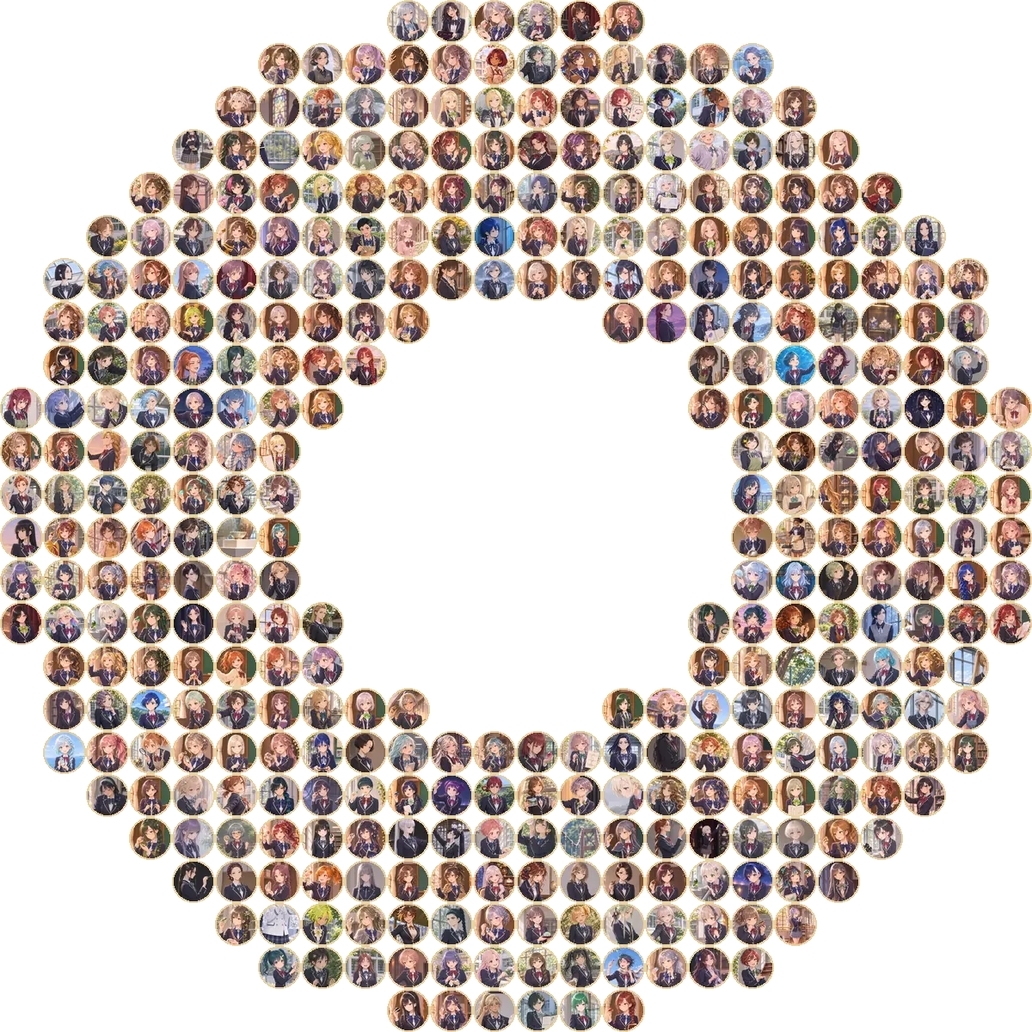
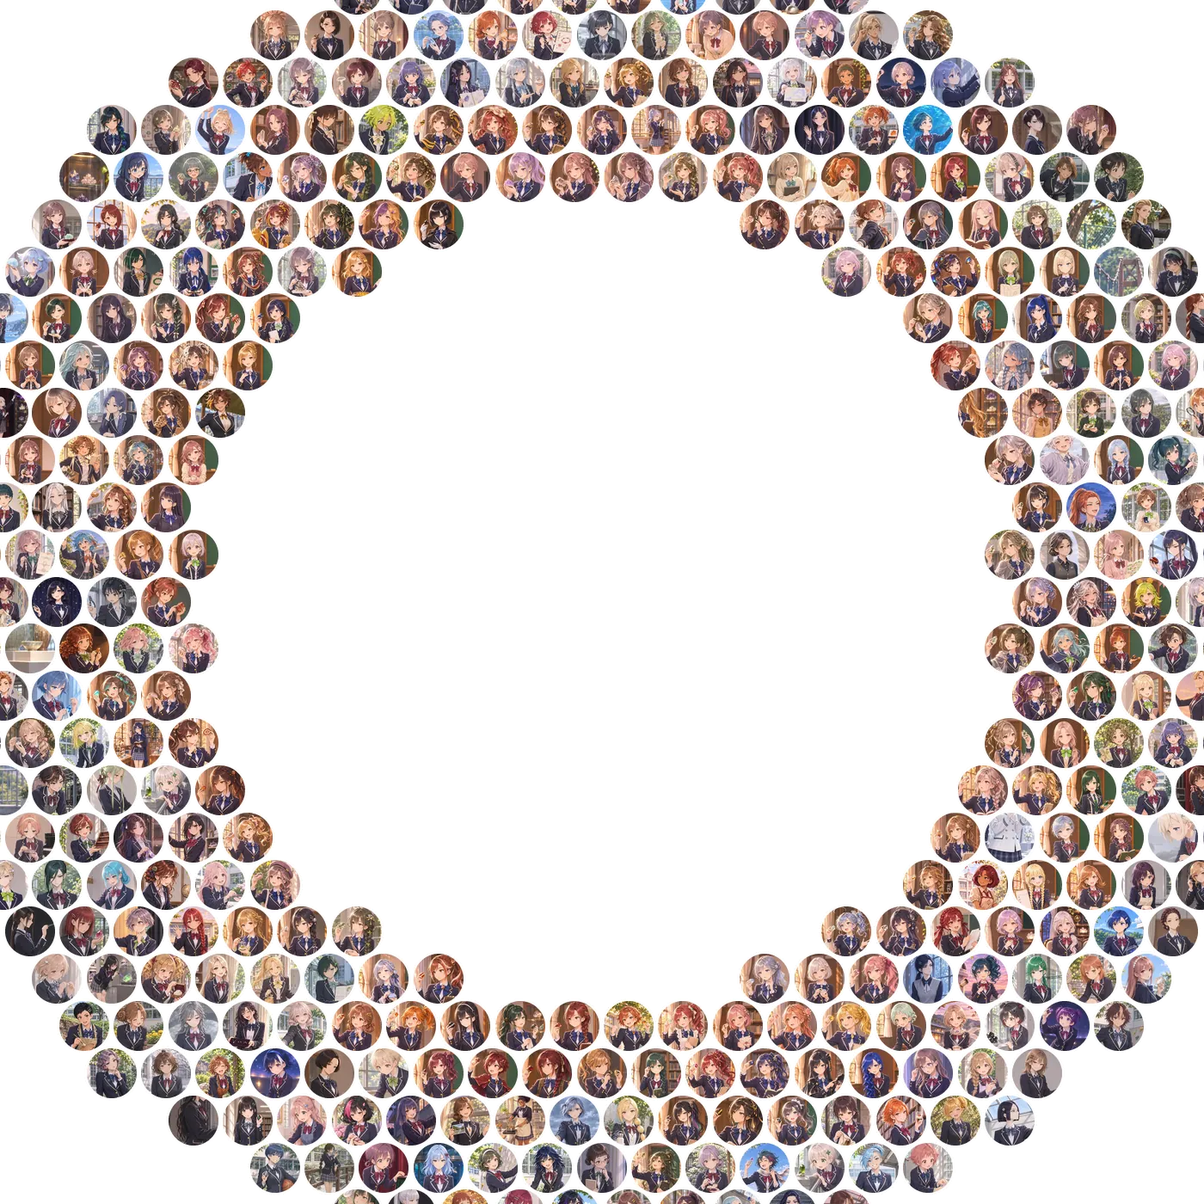
トップを華やかに：顔をタップでアップ表示、花びら・キラキラ・リボン
Claude-Session: https://claude.ai/code/session_01WnJ4nQuK9BvHnjVw5RPZCg

diff --git a/style.css b/style.css
@@ -276,3 +276,100 @@ main{max-width:520px;margin:0 auto;padding:0 14px 24px;outline:none}
 .today-in>a .pic{height:100%}
 
 .h-sub{text-align:center;margin:10px 0 0;font-weight:700;color:#5b3fa8;font-size:15px}.h-sub b{font-size:26px;color:#7b4fd6;margin-right:2px}
+
+/* ===== 2026-11-24 華やか版(女子高の園) ===== */
+:root{--pink:#ff8fb8;--pink2:#ffc2d9;--lilac:#b89cf2;--gold2:#e6c98a;--navy:#4a3a78}
+body{background:
+  radial-gradient(700px 420px at 0% 0%,#ffe1ee 0,transparent 60%),
+  radial-gradient(700px 420px at 100% 8%,#efe4ff 0,transparent 60%),
+  radial-gradient(800px 600px at 50% 110%,#ffe6f1 0,transparent 60%),
+  radial-gradient(circle at 12px 12px,rgba(255,170,205,.22) 2px,transparent 2.5px) 0 0/28px 28px,
+  #fff8fb}
+/* 花びら */
+.petals{position:fixed;inset:0;pointer-events:none;z-index:25;overflow:hidden}
+.petals i{position:absolute;top:-30px;width:12px;height:10px;background:linear-gradient(135deg,#ffd3e3,#ff9ec4);border-radius:12px 0 12px 0;opacity:.85;animation:petal 11s linear infinite}
+.petals i:nth-child(1){left:6%;animation-delay:0s;animation-duration:12s}
+.petals i:nth-child(2){left:18%;animation-delay:3s;transform:scale(.8)}
+.petals i:nth-child(3){left:29%;animation-delay:6s;animation-duration:14s}
+.petals i:nth-child(4){left:41%;animation-delay:1.5s}
+.petals i:nth-child(5){left:52%;animation-delay:8s;animation-duration:13s}
+.petals i:nth-child(6){left:63%;animation-delay:4.5s}
+.petals i:nth-child(7){left:74%;animation-delay:10s;animation-duration:15s}
+.petals i:nth-child(8){left:85%;animation-delay:2s}
+.petals i:nth-child(9){left:94%;animation-delay:7s;animation-duration:12s}
+.petals i:nth-child(10){left:35%;animation-delay:12s;background:linear-gradient(135deg,#efe2ff,#c9aef7)}
+.petals i:nth-child(11){left:70%;animation-delay:14s;background:linear-gradient(135deg,#efe2ff,#c9aef7)}
+.petals i:nth-child(12){left:12%;animation-delay:16s;background:linear-gradient(135deg,#fff3d6,#f0d08e)}
+@keyframes petal{0%{transform:translate(0,0) rotate(0)}25%{transform:translate(30px,25vh) rotate(120deg)}50%{transform:translate(-20px,50vh) rotate(220deg)}75%{transform:translate(25px,75vh) rotate(320deg)}100%{transform:translate(-10px,105vh) rotate(420deg);opacity:.2}}
+/* ヘッダー */
+.hd{background:linear-gradient(180deg,rgba(255,248,251,.97),rgba(255,248,251,.85));border-bottom:1px solid rgba(255,170,205,.35)}
+.hd::after{content:"";position:absolute;left:0;right:0;bottom:-6px;height:6px;background:radial-gradient(circle at 6px 0,rgba(255,170,205,.45) 5px,transparent 5.5px) 0 0/12px 6px}
+.logo-gem{background:linear-gradient(135deg,#ffd0e2,#ff8fb8 45%,#b89cf2);animation:gemshine 4s ease-in-out infinite}
+@keyframes gemshine{50%{filter:drop-shadow(0 0 8px rgba(255,143,184,.8)) brightness(1.15)}}
+.logo-txt b{background:linear-gradient(90deg,#ff6fa5,#b07cf0 45%,#e2b866 70%,#ff6fa5);background-size:200% 100%;-webkit-background-clip:text;background-clip:text;color:transparent;text-shadow:none;animation:shimmer 6s linear infinite}
+.logo-txt b::after{content:" ✦";-webkit-text-fill-color:#f2c86b;font-size:.6em;vertical-align:top}
+.logo-txt small{color:#c05c8c}
+@keyframes shimmer{to{background-position:-200% 0}}
+.menu-btn{border-color:rgba(255,170,205,.6)}
+/* ヒーロー */
+.hero369{background:
+  radial-gradient(circle at 50% 50%,#fff 0,#fff0f7 38%,#f6e6ff 70%,#ecdcff 100%)}
+.hero369::before{content:"";position:absolute;inset:0;background:conic-gradient(from 0deg,rgba(255,180,210,.25),rgba(190,160,255,.25),rgba(255,230,170,.25),rgba(255,180,210,.25));mix-blend-mode:soft-light;pointer-events:none}
+.sparkles{position:absolute;inset:0;pointer-events:none;z-index:3}
+.sparkles i{position:absolute;width:14px;height:14px;background:radial-gradient(circle,#fff 0,#fff 20%,transparent 60%);clip-path:polygon(50% 0,60% 40%,100% 50%,60% 60%,50% 100%,40% 60%,0 50%,40% 40%);animation:twinkle 2.6s ease-in-out infinite;filter:drop-shadow(0 0 4px #ffd36b)}
+.sparkles i:nth-child(1){left:8%;top:12%}.sparkles i:nth-child(2){left:88%;top:9%;animation-delay:.4s}
+.sparkles i:nth-child(3){left:22%;top:30%;animation-delay:.9s}.sparkles i:nth-child(4){left:76%;top:26%;animation-delay:1.3s}
+.sparkles i:nth-child(5){left:12%;top:70%;animation-delay:1.7s}.sparkles i:nth-child(6){left:90%;top:76%;animation-delay:.2s}
+.sparkles i:nth-child(7){left:48%;top:4%;animation-delay:2.1s}.sparkles i:nth-child(8){left:50%;top:93%;animation-delay:1.1s}
+.sparkles i:nth-child(9){left:3%;top:46%;animation-delay:.6s}.sparkles i:nth-child(10){left:95%;top:50%;animation-delay:1.9s}
+.sparkles i:nth-child(11){left:30%;top:86%;animation-delay:2.4s}.sparkles i:nth-child(12){left:70%;top:88%;animation-delay:.8s}
+.sparkles i:nth-child(13){left:33%;top:14%;animation-delay:1.5s}.sparkles i:nth-child(14){left:66%;top:12%;animation-delay:.3s}
+@keyframes twinkle{0%,100%{transform:scale(.3);opacity:0}50%{transform:scale(1.2) rotate(45deg);opacity:1}}
+.hits{position:absolute;inset:0}
+.hit{position:absolute;width:var(--d);height:var(--d);transform:translate(-50%,-50%);border-radius:50%;border:0;padding:0;background:transparent;-webkit-tap-highlight-color:transparent;transition:box-shadow .2s,transform .2s}
+.hit:hover,.hit:focus-visible{box-shadow:0 0 0 2px #fff,0 0 0 4px #ff8fb8,0 0 14px 4px rgba(255,143,184,.7);transform:translate(-50%,-50%) scale(1.25);outline:none}
+.hit:active{transform:translate(-50%,-50%) scale(1.4)}
+.h-center.has-group{box-shadow:0 0 0 4px #fff,0 0 0 8px #f2cf86,0 0 0 11px #fff,0 0 0 13px #ffb3cf,0 12px 40px 12px rgba(255,120,170,.35)}
+.h-center.has-group::after{content:"";position:absolute;inset:0;border-radius:50%;background:linear-gradient(120deg,transparent 35%,rgba(255,255,255,.55) 50%,transparent 65%);background-size:250% 100%;animation:gloss 5s ease-in-out 2s infinite;pointer-events:none}
+@keyframes gloss{0%{background-position:120% 0}40%,100%{background-position:-120% 0}}
+.h-hint{text-align:center;margin:10px 0 0;font-family:var(--head);font-size:13px;color:#d0598d;animation:hintpulse 2.4s ease-in-out infinite}
+@keyframes hintpulse{50%{opacity:.55}}
+.h-sub{position:relative;display:block;width:max-content;max-width:100%;margin:10px auto 0;padding:6px 26px;background:linear-gradient(90deg,#ff9fc4,#c3a2f5);color:#fff;border-radius:6px;font-size:14px;box-shadow:0 4px 12px rgba(255,120,170,.3)}
+.h-sub b{color:#fff;font-size:22px;text-shadow:0 1px 0 rgba(160,60,120,.35)}
+.h-sub::before,.h-sub::after{content:"";position:absolute;top:50%;width:14px;height:100%;transform:translateY(-50%);background:inherit;z-index:-1}
+.h-sub::before{left:-10px;clip-path:polygon(0 0,100% 0,100% 100%,0 100%,40% 50%);background:#ff9fc4}
+.h-sub::after{right:-10px;clip-path:polygon(0 0,100% 0,60% 50%,100% 100%,0 100%);background:#c3a2f5}
+/* ボタン */
+.btn.pri{background:linear-gradient(135deg,#ff8fb8,#c08af0);border-color:#ffd9e6;position:relative;overflow:hidden;box-shadow:0 6px 16px rgba(255,120,170,.35)}
+.btn.pri::after{content:"";position:absolute;top:0;left:-60%;width:40%;height:100%;background:linear-gradient(100deg,transparent,rgba(255,255,255,.6),transparent);transform:skewX(-20deg);animation:btnshine 3.5s ease-in-out infinite}
+@keyframes btnshine{0%,60%{left:-60%}100%{left:130%}}
+.btn{border-color:rgba(255,170,205,.7)}
+/* カード */
+.card{background:rgba(255,255,255,.86);border:1.5px solid rgba(255,170,205,.55);box-shadow:0 8px 24px rgba(255,120,170,.13)}
+.card h2::before{content:"❀ ";color:#ff8fb8}
+.today-tag{background:linear-gradient(90deg,#ff8fb8,#c08af0)!important;color:#fff!important}
+/* タブ */
+.tabs{background:linear-gradient(180deg,#fff7fb,#fff);border-top:1.5px solid rgba(255,170,205,.6)}
+.tabs a.on{background:linear-gradient(150deg,#ff9cc2,#b98af0);box-shadow:0 4px 12px rgba(255,120,170,.4)}
+/* ライトボックス */
+.lb{position:fixed;inset:0;z-index:60;display:grid;place-items:center;padding:18px}
+.lb-bg{position:absolute;inset:0;background:radial-gradient(circle at 50% 40%,rgba(255,214,232,.75),rgba(110,80,170,.6));backdrop-filter:blur(6px)}
+.lb-card{position:relative;width:min(380px,100%);background:linear-gradient(180deg,#fff,#fff6fa);border-radius:30px;padding:18px 18px 14px;box-shadow:0 20px 60px rgba(90,50,140,.35),0 0 0 3px #fff,0 0 0 6px #f6c9dc;touch-action:pan-y}
+.lb-pic{width:100%;aspect-ratio:1/1.1;border-radius:28px;overflow:hidden;background:#f4ecff;box-shadow:inset 0 0 0 3px #fff}
+.lb-pic img{width:100%;height:100%;object-fit:cover;object-position:50% 15%}
+.lb-group .lb-card{width:min(560px,100%)}
+.lb-group .lb-pic{aspect-ratio:1}
+.lb-tx{text-align:center;padding:12px 4px 2px}
+.lb-no{font-size:12px;color:#c05c8c;letter-spacing:.1em}
+.lb-tx h3{font-size:26px;margin:2px 0;background:linear-gradient(90deg,#ff6fa5,#9b6be6);-webkit-background-clip:text;background-clip:text;color:transparent}
+.lb-st{margin:0 0 10px;font-size:14px;color:var(--navy)}
+.lb-st .dot{display:inline-block;width:10px;height:10px;border-radius:50%;margin-right:6px;vertical-align:0;box-shadow:0 0 0 2px #fff,0 0 0 3px rgba(0,0,0,.08)}
+.lb-x{position:absolute;top:-12px;right:-8px;width:40px;height:40px;border-radius:50%;border:0;background:#fff;color:#c05c8c;font-size:24px;line-height:1;box-shadow:0 4px 12px rgba(90,50,140,.25);z-index:2}
+.lb-nav{position:absolute;top:42%;width:40px;height:40px;border-radius:50%;border:0;background:rgba(255,255,255,.92);color:#c05c8c;font-size:26px;line-height:1;box-shadow:0 4px 12px rgba(90,50,140,.2)}
+.lb-prev{left:-10px}.lb-next{right:-10px}
+.lb-swipe{margin:6px 0 0;text-align:center;font-size:11px;color:#a78bc9}
+body.lb-open{overflow:hidden}
+body.lb-open .mosaic{animation-play-state:paused}
+@media (prefers-reduced-motion:reduce){.petals,.sparkles{display:none}.btn.pri::after,.h-center.has-group::after,.logo-txt b{animation:none}}
+.hero369{-webkit-mask:radial-gradient(circle at 50% 50%,#000 62%,transparent 72%);mask:radial-gradient(circle at 50% 50%,#000 62%,transparent 72%)}
+.h-sub{font-size:12.5px;padding:6px 18px}.h-sub b{font-size:19px}

diff --git a/app.js b/app.js
@@ -145,11 +145,13 @@ function vHome(){
   }
   return `
   <section class="hero369" aria-label="369人の部員">
-    <div class="mosaic"><img src="img/mosaic.webp" alt="いしけん！の部員369人" width="1200" height="1200"></div>
+    <div class="sparkles" aria-hidden="true">${"<i></i>".repeat(14)}</div>
+    <div class="mosaic"><img src="img/mosaic.webp" alt="いしけん！の部員369人" width="1400" height="1400"><div class="hits" style="--d:${(window.MOSAIC||{}).d||4.5}%">${((window.MOSAIC||{}).p||[]).map(([n,x,y])=>`<button class="hit" data-face="${n}" style="left:${x}%;top:${y}%" aria-label="${esc((BY.get(n)||{}).name||"")}"></button>`).join("")}</div></div>
     <div class="h-center${IMG.group?" has-group":""}">
-      ${IMG.group? `<a href="${IMG.group}" target="_blank" rel="noopener"><img class="group" src="${IMG.group}" alt="いしけん！主要メンバーの集合絵"></a>`:`<div class="h-copy"><span class="h-count" data-count="369">0</span><span class="h-unit">人の部員が</span><span class="h-line">あなたの推しを<br>待っています</span></div>`}
+      ${IMG.group? `<a href="${IMG.group}" data-groupzoom="1"><img class="group" src="${IMG.group}" alt="いしけん！主要メンバーの集合絵"></a>`:`<div class="h-copy"><span class="h-count" data-count="369">0</span><span class="h-unit">人の部員が</span><span class="h-line">あなたの推しを<br>待っています</span></div>`}
     </div>
   </section>
+  <p class="h-hint">✦ 小さな顔をタップすると、その子に会えます ✦</p>
   ${IMG.group? `<p class="h-sub"><b data-count="369">369</b>人の部員が、あなたの推しを待っています</p>`:""}
   <div class="h-cta"><a class="btn pri" href="#/quiz">3分で推し診断 ›</a><a class="btn" href="#/girls">369人を見る</a></div>
   <section class="card today" aria-label="今日の誕生日の子">
@@ -442,6 +444,72 @@ function route(){
   route.keep = false;
 }
 function rerender(){ const y = scrollY; route.keep = true; route(); scrollTo(0,y); }
+
+/* ---------- 顔のアップ(ライトボックス) ---------- */
+let LB = null;
+function faceSrc(n){ const v = IMG[n]||{}; return v.bust || v.main || ""; }
+function lbHtml(n){
+  const c = BY.get(n); const src = faceSrc(n);
+  return `<div class="lb-pic">${src?`<img src="${src}" alt="${esc(c.name)}">`:`<div class="ph"><b>${esc(c.name[0])}</b></div>`}</div>
+    <div class="lb-tx"><span class="lb-no">No.${n}</span><h3>${esc(c.name)}</h3><p class="lb-st"><span class="dot" style="background:${colorOf(c)}"></span>${esc(c.stone)}　${esc(c.date||"")}生まれ</p>
+    <a class="btn pri" href="#/girl/${n}">この子のページへ ›</a></div>`;
+}
+function openFace(n, fromEl){
+  closeFace(true);
+  const box = document.createElement("div");
+  box.className = "lb"; box.setAttribute("role","dialog"); box.setAttribute("aria-modal","true");
+  box.innerHTML = `<div class="lb-bg"></div><div class="lb-card"><button class="lb-x" aria-label="閉じる">×</button><div class="lb-body">${lbHtml(n)}</div>
+    <button class="lb-nav lb-prev" aria-label="前の子">‹</button><button class="lb-nav lb-next" aria-label="次の子">›</button><p class="lb-swipe">左右にスワイプで次の子へ</p></div>`;
+  document.body.appendChild(box); document.body.classList.add("lb-open");
+  LB = {n, box};
+  const pic = box.querySelector(".lb-pic");
+  if(fromEl && pic.animate){
+    const a = fromEl.getBoundingClientRect(), b = pic.getBoundingClientRect();
+    const sx = a.width/b.width, dx = a.left + a.width/2 - (b.left + b.width/2), dy = a.top + a.height/2 - (b.top + b.height/2);
+    pic.animate([{transform:`translate(${dx}px,${dy}px) scale(${sx})`, borderRadius:"50%"},{transform:"none", borderRadius:"28px"}],{duration:520, easing:"cubic-bezier(.2,.9,.25,1.15)"});
+    box.querySelector(".lb-tx").animate([{opacity:0, transform:"translateY(14px)"},{opacity:1, transform:"none"}],{duration:420, delay:220, fill:"backwards", easing:"ease-out"});
+  }
+  box.querySelector(".lb-bg").animate?.([{opacity:0},{opacity:1}],{duration:300});
+  box.querySelector(".lb-x").focus({preventScroll:true});
+  let x0 = null;
+  const card = box.querySelector(".lb-card");
+  card.addEventListener("pointerdown", e=>{ x0 = e.clientX; });
+  card.addEventListener("pointerup", e=>{ if(x0===null) return; const dx = e.clientX - x0; x0 = null; if(Math.abs(dx) > 50) stepFace(dx < 0 ? 1 : -1); });
+}
+function stepFace(k){
+  if(!LB) return;
+  const n = ((LB.n - 1 + k + 369) % 369) + 1;
+  LB.n = n;
+  const body = LB.box.querySelector(".lb-body");
+  body.innerHTML = lbHtml(n);
+  body.animate?.([{opacity:0, transform:`translateX(${k*40}px)`},{opacity:1, transform:"none"}],{duration:300, easing:"ease-out"});
+}
+function closeFace(now){
+  if(!LB) return;
+  const box = LB.box; LB = null; document.body.classList.remove("lb-open");
+  if(now || !box.animate){ box.remove(); return; }
+  box.animate([{opacity:1},{opacity:0}],{duration:200}).onfinish = ()=>box.remove();
+}
+document.addEventListener("click", e=>{
+  const h = e.target.closest(".hit"); if(h){ e.preventDefault(); openFace(+h.dataset.face, h); return; }
+  const g = e.target.closest("[data-groupzoom]"); if(g){ e.preventDefault(); openGroup(g); return; }
+  if(!LB) return;
+  if(e.target.closest(".lb-x") || e.target.classList.contains("lb-bg")){ closeFace(); return; }
+  if(e.target.closest(".lb-prev")){ stepFace(-1); return; }
+  if(e.target.closest(".lb-next")){ stepFace(1); return; }
+  if(e.target.closest(".lb a")) closeFace(true);
+}, true);
+function openGroup(el){
+  closeFace(true);
+  const box = document.createElement("div"); box.className = "lb lb-group";
+  box.innerHTML = `<div class="lb-bg"></div><div class="lb-card"><button class="lb-x" aria-label="閉じる">×</button><div class="lb-pic"><img src="${IMG.group}" alt="いしけん！主要メンバーの集合絵"></div></div>`;
+  document.body.appendChild(box); document.body.classList.add("lb-open"); LB = {n:0, box};
+  const pic = box.querySelector(".lb-pic");
+  if(pic.animate){ const a = el.getBoundingClientRect(), b = pic.getBoundingClientRect();
+    pic.animate([{transform:`translate(${a.left+a.width/2-(b.left+b.width/2)}px,${a.top+a.height/2-(b.top+b.height/2)}px) scale(${a.width/b.width})`, borderRadius:"50%"},{transform:"none", borderRadius:"24px"}],{duration:520, easing:"cubic-bezier(.2,.9,.25,1.1)"}); }
+}
+document.addEventListener("keydown", e=>{ if(!LB) return; if(e.key==="Escape") closeFace(); if(e.key==="ArrowRight") stepFace(1); if(e.key==="ArrowLeft") stepFace(-1); });
+window.addEventListener("hashchange", ()=>closeFace(true));
 
 /* ---------- 操作 ---------- */
 async function share(text){

diff --git a/data/mosaic.js b/data/mosaic.js
@@ -1,0 +1,1 @@
+window.MOSAIC={d:4.524,p:[[1,16.07,46.08],[2,13.81,42.16],[3,16.07,38.25],[4,18.33,34.33],[5,20.6,30.41],[6,22.86,26.49],[7,25.12,22.58],[8,29.64,22.58],[9,31.91,18.66],[10,36.43,18.66],[11,38.69,14.74],[12,43.21,14.74],[13,47.74,14.74],[14,52.26,14.74],[15,56.79,14.74],[16,61.31,14.74],[17,63.57,18.66],[18,68.09,18.66],[19,70.36,22.58],[20,74.88,22.58],[21,77.14,26.49],[22,79.4,30.41],[23,81.67,34.33],[24,83.93,38.25],[25,86.19,42.16],[26,83.93,46.08],[27,86.19,50.0],[28,83.93,53.92],[29,86.19,57.84],[30,83.93,61.75],[31,81.67,65.67],[32,79.4,69.59],[33,77.14,73.51],[34,74.88,77.42],[35,70.36,77.42],[36,68.09,81.34],[37,63.57,81.34],[38,61.31,85.26],[39,56.79,85.26],[40,52.26,85.26],[41,47.74,85.26],[42,43.21,85.26],[43,38.69,85.26],[44,36.43,81.34],[45,31.91,81.34],[46,29.64,77.42],[47,25.12,77.42],[48,22.86,73.51],[49,20.6,69.59],[50,18.33,65.67],[51,16.07,61.75],[52,13.81,57.84],[53,16.07,53.92],[54,13.81,50.0],[55,11.55,46.08],[56,9.29,42.16],[57,11.55,38.25],[58,13.81,34.33],[59,16.07,30.41],[60,18.33,26.49],[61,20.6,22.58],[62,22.86,18.66],[63,27.38,18.66],[64,29.64,14.74],[65,34.17,14.74],[66,36.43,10.82],[67,40.95,10.82],[68,45.48,10.82],[69,50.0,10.82],[70,54.52,10.82],[71,59.05,10.82],[72,63.57,10.82],[73,65.83,14.74],[74,70.36,14.74],[75,72.62,18.66],[76,77.14,18.66],[77,79.4,22.58],[78,81.67,26.49],[79,83.93,30.41],[80,86.19,34.33],[81,88.45,38.25],[82,90.71,42.16],[83,88.45,46.08],[84,90.71,50.0],[85,88.45,53.92],[86,90.71,57.84],[87,88.45,61.75],[88,86.19,65.67],[89,83.93,69.59],[90,81.67,73.51],[91,79.4,77.42],[92,77.14,81.34],[93,72.62,81.34],[94,70.36,85.26],[95,65.83,85.26],[96,63.57,89.18],[97,59.05,89.18],[98,54.52,89.18],[99,50.0,89.18],[100,45.48,89.18],[101,40.95,89.18],[102,36.43,89.18],[103,34.17,85.26],[104,29.64,85.26],[105,27.38,81.34],[106,22.86,81.34],[107,20.6,77.42],[108,18.33,73.51],[109,16.07,69.59],[110,13.81,65.67],[111,11.55,61.75],[112,9.29,57.84],[113,11.55,53.92],[114,9.29,50.0],[115,7.03,46.08],[116,4.76,42.16],[117,7.03,38.25],[118,9.29,34.33],[119,7.03,30.41],[120,11.55,30.41],[121,9.29,26.49],[122,13.81,26.49],[123,11.55,22.58],[124,16.07,22.58],[125,18.33,18.66],[126,20.6,14.74],[127,25.12,14.74],[128,27.38,10.82],[129,31.91,10.82],[130,34.17,6.91],[131,38.69,6.91],[132,43.21,6.91],[133,45.48,2.99],[134,47.74,6.91],[135,50.0,2.99],[136,52.26,6.91],[137,54.52,2.99],[138,56.79,6.91],[139,61.31,6.91],[140,65.83,6.91],[141,68.09,10.82],[142,72.62,10.82],[143,74.88,14.74],[144,79.4,14.74],[145,81.67,18.66],[146,83.93,22.58],[147,88.45,22.58],[148,86.19,26.49],[149,90.71,26.49],[150,88.45,30.41],[151,92.97,30.41],[152,90.71,34.33],[153,92.97,38.25],[154,95.24,42.16],[155,92.97,46.08],[156,95.24,50.0],[157,92.97,53.92],[158,95.24,57.84],[159,92.97,61.75],[160,90.71,65.67],[161,92.97,69.59],[162,88.45,69.59],[163,90.71,73.51],[164,86.19,73.51],[165,88.45,77.42],[166,83.93,77.42],[167,81.67,81.34],[168,79.4,85.26],[169,74.88,85.26],[170,72.62,89.18],[171,68.09,89.18],[172,65.83,93.09],[173,61.31,93.09],[174,56.79,93.09],[175,54.52,97.01],[176,52.26,93.09],[177,50.0,97.01],[178,47.74,93.09],[179,45.48,97.01],[180,43.21,93.09],[181,38.69,93.09],[182,34.17,93.09],[183,31.91,89.18],[184,27.38,89.18],[185,25.12,85.26],[186,20.6,85.26],[187,18.33,81.34],[188,16.07,77.42],[189,11.55,77.42],[190,13.81,73.51],[191,9.29,73.51],[192,11.55,69.59],[193,7.03,69.59],[194,9.29,65.67],[195,7.03,61.75],[196,4.76,57.84],[197,7.03,53.92],[198,4.76,50.0],[199,2.5,46.08],[200,0.24,42.16],[201,2.5,38.25],[202,4.76,34.33],[203,2.5,30.41],[204,4.76,26.49],[205,7.03,22.58],[206,9.29,18.66],[207,13.81,18.66],[208,16.07,14.74],[209,18.33,10.82],[210,22.86,10.82],[211,25.12,6.91],[212,29.64,6.91],[213,31.91,2.99],[214,36.43,2.99],[215,40.95,2.99],[216,43.21,-0.93],[217,47.74,-0.93],[218,52.26,-0.93],[219,56.79,-0.93],[220,59.05,2.99],[221,63.57,2.99],[222,68.09,2.99],[223,70.36,6.91],[224,74.88,6.91],[225,77.14,10.82],[226,81.67,10.82],[227,83.93,14.74],[228,86.19,18.66],[229,90.71,18.66],[230,92.97,22.58],[231,95.24,26.49],[232,97.5,30.41],[233,95.24,34.33],[234,97.5,38.25],[235,99.76,42.16],[236,97.5,46.08],[237,99.76,50.0],[238,97.5,53.92],[239,99.76,57.84],[240,97.5,61.75],[241,95.24,65.67],[242,97.5,69.59],[243,95.24,73.51],[244,92.97,77.42],[245,90.71,81.34],[246,86.19,81.34],[247,83.93,85.26],[248,81.67,89.18],[249,77.14,89.18],[250,74.88,93.09],[251,70.36,93.09],[252,68.09,97.01],[253,63.57,97.01],[254,59.05,97.01],[255,56.79,100.93],[256,52.26,100.93],[257,47.74,100.93],[258,43.21,100.93],[259,40.95,97.01],[260,36.43,97.01],[261,31.91,97.01],[262,29.64,93.09],[263,25.12,93.09],[264,22.86,89.18],[265,18.33,89.18],[266,16.07,85.26],[267,13.81,81.34],[268,9.29,81.34],[269,7.03,77.42],[270,4.76,73.51],[271,2.5,69.59],[272,4.76,65.67],[273,2.5,61.75],[274,0.24,57.84],[275,2.5,53.92],[276,0.24,50.0],[277,-2.02,46.08],[278,-4.28,42.16],[279,-2.02,38.25],[280,-4.28,34.33],[281,0.24,34.33],[282,-2.02,30.41],[283,0.24,26.49],[284,2.5,22.58],[285,4.76,18.66],[286,7.03,14.74],[287,11.55,14.74],[288,9.29,10.82],[289,13.81,10.82],[290,16.07,6.91],[291,20.6,6.91],[292,22.86,2.99],[293,27.38,2.99],[294,29.64,-0.93],[295,34.17,-0.93],[296,36.43,-4.85],[297,38.69,-0.93],[298,40.95,-4.85],[299,45.48,-4.85],[300,50.0,-4.85],[301,54.52,-4.85],[302,59.05,-4.85],[303,61.31,-0.93],[304,63.57,-4.85],[305,65.83,-0.93],[306,70.36,-0.93],[307,72.62,2.99],[308,77.14,2.99],[309,79.4,6.91],[310,83.93,6.91],[311,86.19,10.82],[312,90.71,10.82],[313,88.45,14.74],[314,92.97,14.74],[315,95.24,18.66],[316,97.5,22.58],[317,99.76,26.49],[318,102.02,30.41],[319,99.76,34.33],[320,104.28,34.33],[321,102.02,38.25],[322,104.28,42.16],[323,102.02,46.08],[324,104.28,50.0],[325,102.02,53.92],[326,104.28,57.84],[327,102.02,61.75],[328,104.28,65.67],[329,99.76,65.67],[330,102.02,69.59],[331,99.76,73.51],[332,97.5,77.42],[333,95.24,81.34],[334,92.97,85.26],[335,88.45,85.26],[336,86.19,89.18],[337,83.93,93.09],[338,79.4,93.09],[339,77.14,97.01],[340,72.62,97.01],[341,70.36,100.93],[342,65.83,100.93],[343,61.31,100.93],[344,59.05,104.85],[345,54.52,104.85],[346,50.0,104.85],[347,45.48,104.85],[348,40.95,104.85],[349,38.69,100.93],[350,34.17,100.93],[351,29.64,100.93],[352,27.38,97.01],[353,22.86,97.01],[354,20.6,93.09],[355,16.07,93.09],[356,13.81,89.18],[357,9.29,89.18],[358,11.55,85.26],[359,7.03,85.26],[360,4.76,81.34],[361,2.5,77.42],[362,0.24,73.51],[363,-2.02,69.59],[364,0.24,65.67],[365,-4.28,65.67],[366,-2.02,61.75],[367,-4.28,57.84],[368,-2.02,53.92],[369,-4.28,50.0]]};

diff --git a/index.html b/index.html
@@ -16,6 +16,7 @@
 <link rel="stylesheet" href="style.css">
 </head>
 <body>
+<div class="petals" aria-hidden="true"><i></i><i></i><i></i><i></i><i></i><i></i><i></i><i></i><i></i><i></i><i></i><i></i></div>
 <header class="hd">
   <a href="#/" class="logo" aria-label="いしけん！ホームへ">
     <span class="logo-gem" aria-hidden="true"></span>
@@ -43,6 +44,7 @@
 </nav>
 <div class="toast" id="toast" role="status" aria-live="polite"></div>
 <script src="data/chars.js"></script>
+<script src="data/mosaic.js"></script>
 <script src="data/images.js"></script>
 <script src="app.js"></script>
 </body>

diff --git a/tools/make_mosaic.py b/tools/make_mosaic.py
@@ -1,0 +1,58 @@
+# トップの「369人の顔の輪」を作る。img/mosaic.webp と、タップ用の位置 data/mosaic.js を書き出す
+import json, math, os
+from PIL import Image, ImageDraw
+
+S = 1400                 # 画像の一辺
+R_IN, R_OUT = 0.315, 0.565   # 真ん中の集合絵の外側〜外周(一辺=1)
+N = 369
+
+def cells(d):
+    out = []
+    dy = d * math.sqrt(3) / 2
+    rows = int(1.3 / dy) + 2
+    for j in range(-rows, rows + 1):
+        y = j * dy
+        off = (d / 2) if j % 2 else 0
+        for i in range(-rows, rows + 1):
+            x = i * d + off
+            r = math.hypot(x, y)
+            if R_IN + d * 0.5 <= r <= R_OUT:
+                out.append((x, y, r))
+    return out
+
+lo, hi = 0.02, 0.08
+for _ in range(40):
+    mid = (lo + hi) / 2
+    if len(cells(mid)) >= N: lo = mid
+    else: hi = mid
+d = lo
+cs = sorted(cells(d), key=lambda c: c[2])[:N]
+# 内側から外へ、角度順に並べて番号を振る(同じ輪の中で時計回り)
+cs.sort(key=lambda c: (round(c[2] / d), math.atan2(c[1], c[0])))
+
+js = open("data/images.js").read()
+IM = json.loads(js[js.index("=") + 1:].rstrip(";\n"))
+canvas = Image.new("RGBA", (S, S), (0, 0, 0, 0))
+px = int(d * S * 0.92)
+mask = Image.new("L", (px * 4, px * 4), 0)
+ImageDraw.Draw(mask).ellipse((0, 0, px * 4 - 1, px * 4 - 1), fill=255)
+mask = mask.resize((px, px), Image.LANCZOS)
+pos = []
+for k, (x, y, r) in enumerate(cs):
+    n = k + 1
+    v = IM.get(str(n), {})
+    src = v.get("bust") or v.get("main")
+    cx, cy = (0.5 + x) * S, (0.5 + y) * S
+    if src and os.path.exists(src):
+        im = Image.open(src).convert("RGB")
+        w, h = im.size
+        side = min(w, h)
+        im = im.crop(((w - side) // 2, 0, (w - side) // 2 + side, side)).resize((px, px), Image.LANCZOS)
+        ring = Image.new("RGBA", (px + 6, px + 6), (0, 0, 0, 0))
+        ImageDraw.Draw(ring).ellipse((0, 0, px + 5, px + 5), fill=(255, 255, 255, 235))
+        canvas.alpha_composite(ring, (int(cx - px / 2 - 3), int(cy - px / 2 - 3)))
+        canvas.paste(im, (int(cx - px / 2), int(cy - px / 2)), mask)
+    pos.append([n, round((0.5 + x) * 100, 2), round((0.5 + y) * 100, 2)])
+canvas.save("img/mosaic.webp", "WEBP", quality=80, method=6)
+open("data/mosaic.js", "w").write("window.MOSAIC={d:%.3f,p:%s};" % (d * 100, json.dumps(pos, separators=(",", ":"))))
+print("円の直径", round(d * 100, 2), "% / ", len(pos), "人")
